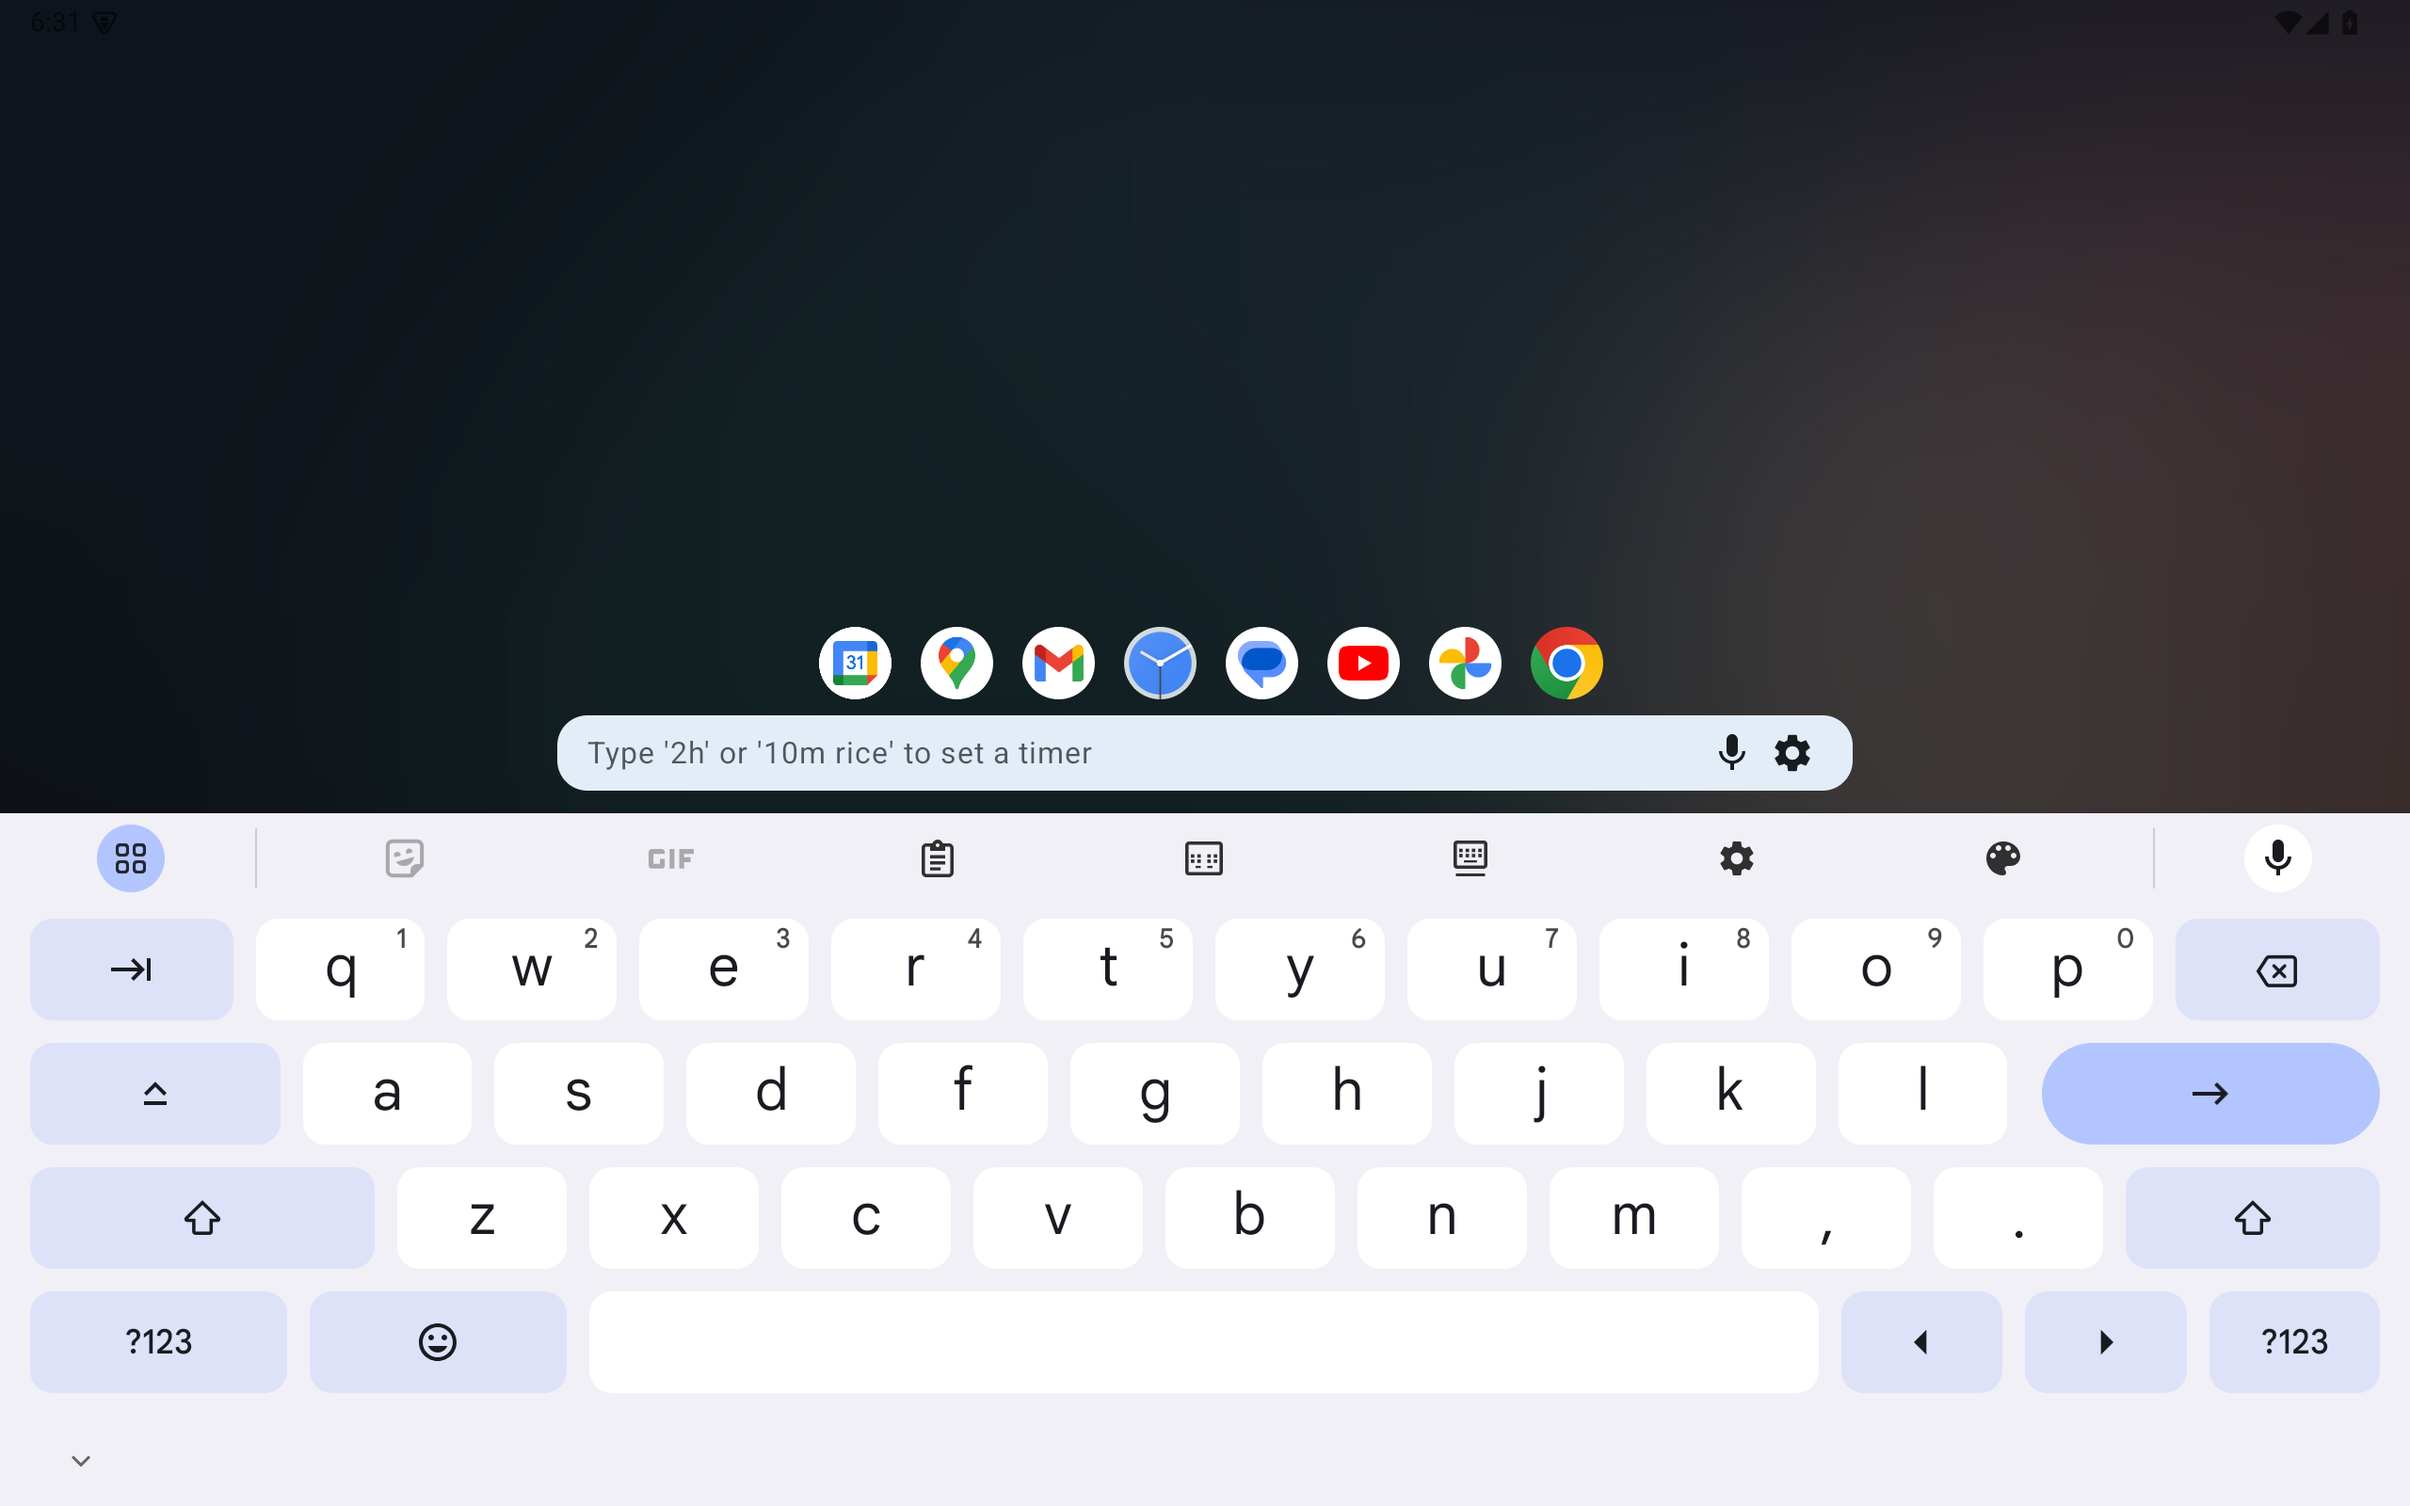
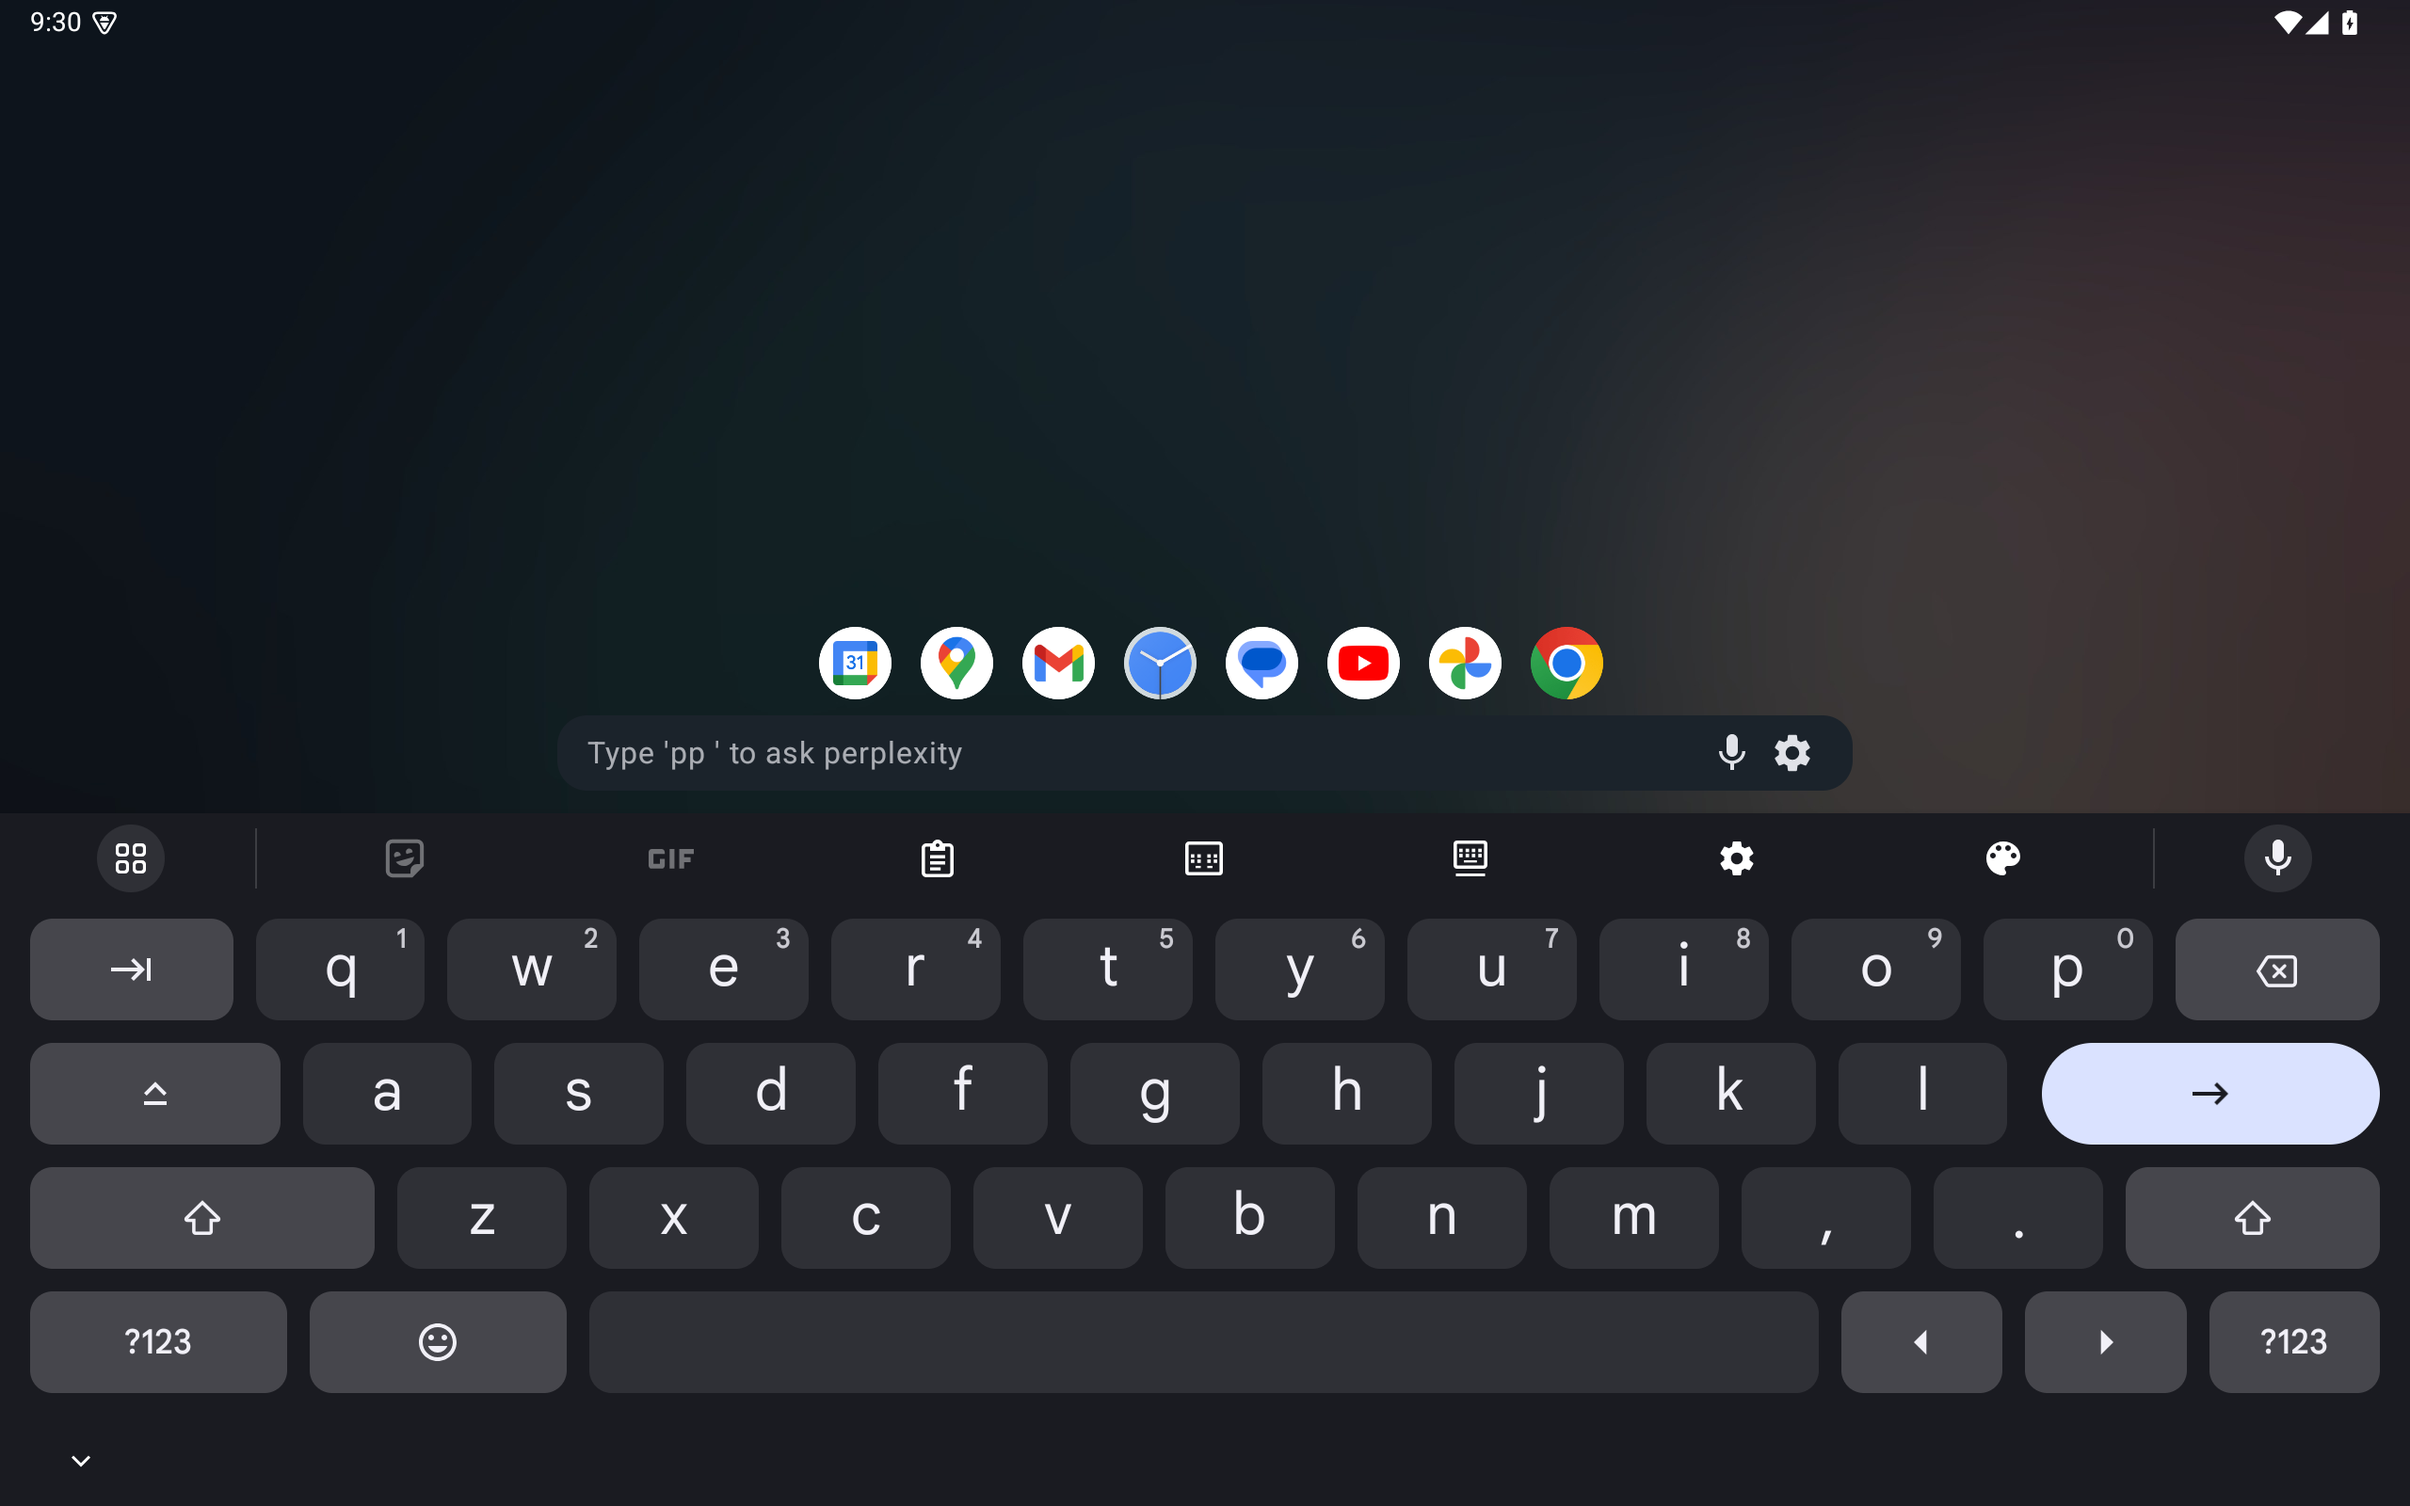
Shoot the screenshots in dark mode
The keyboard and the result list were coming out white, which is most of the pixels in
an image whose canvas, wallpaper and device frame are all near-black. Everything is
captured with night mode on now, so each screenshot sits on the canvas instead of
glaring out of it.

Recaptured rather than recoloured, so the tabs page shows pages that actually loaded and
the sum in the smart input page is the one that was typed.

diff --git a/marketing/README.md b/marketing/README.md
@@ -58,10 +58,12 @@ Then, per emulator:
    `adb shell cmd package set-home-activity com.searchlauncher.app.debug/com.searchlauncher.app.ui.MainActivity`.
 2. Walk onboarding, granting contacts and calendar and turning autocomplete on — the
    YouTube suggestions in `03_search_youtube` need it.
-3. Seed contacts (Ada Lovelace, Grace Hopper, Alan Turing, Katherine Johnson, Mae
+3. `adb shell cmd uimode night yes`. Every capture is in dark mode, so the keyboard and
+   the result list sit on the dark canvas instead of glaring out of it.
+4. Seed contacts (Ada Lovelace, Grace Hopper, Alan Turing, Katherine Johnson, Mae
    Jemison, Maya Chen, Marcus Webb) with `content insert` against
    `content://com.android.contacts`.
-4. Add an analog clock and a calendar month widget from the launcher's own
+5. Add an analog clock and a calendar month widget from the launcher's own
    **Add Widget** menu, long-pressed on the wallpaper.
 
 The launcher's whole state — wallpapers, favourites, custom shortcuts — moves between
@@ -75,6 +77,12 @@ adb -s <to> shell 'run-as com.searchlauncher.app.debug sh -c "rm -rf files share
 
 Widget IDs do not survive the copy: the launcher shows a "Widget unavailable" card for
 each one, and they have to be removed and added again.
+
+`adb shell input text` drops characters on these emulators when the app is busy, which
+silently turns `openstreetmap.org` into `opensreetmap.og`. Send anything that has to be
+exact one character at a time with a pause, and read the field back before acting on it.
+A mistyped URL also lands in the browser history, where it then outranks the correct one
+in the result list.
 
 `fastlane/metadata/android/en-US/images/phoneScreenshots/` is a separate copy, and is
 what F-Droid actually publishes. It is not kept in sync automatically.
